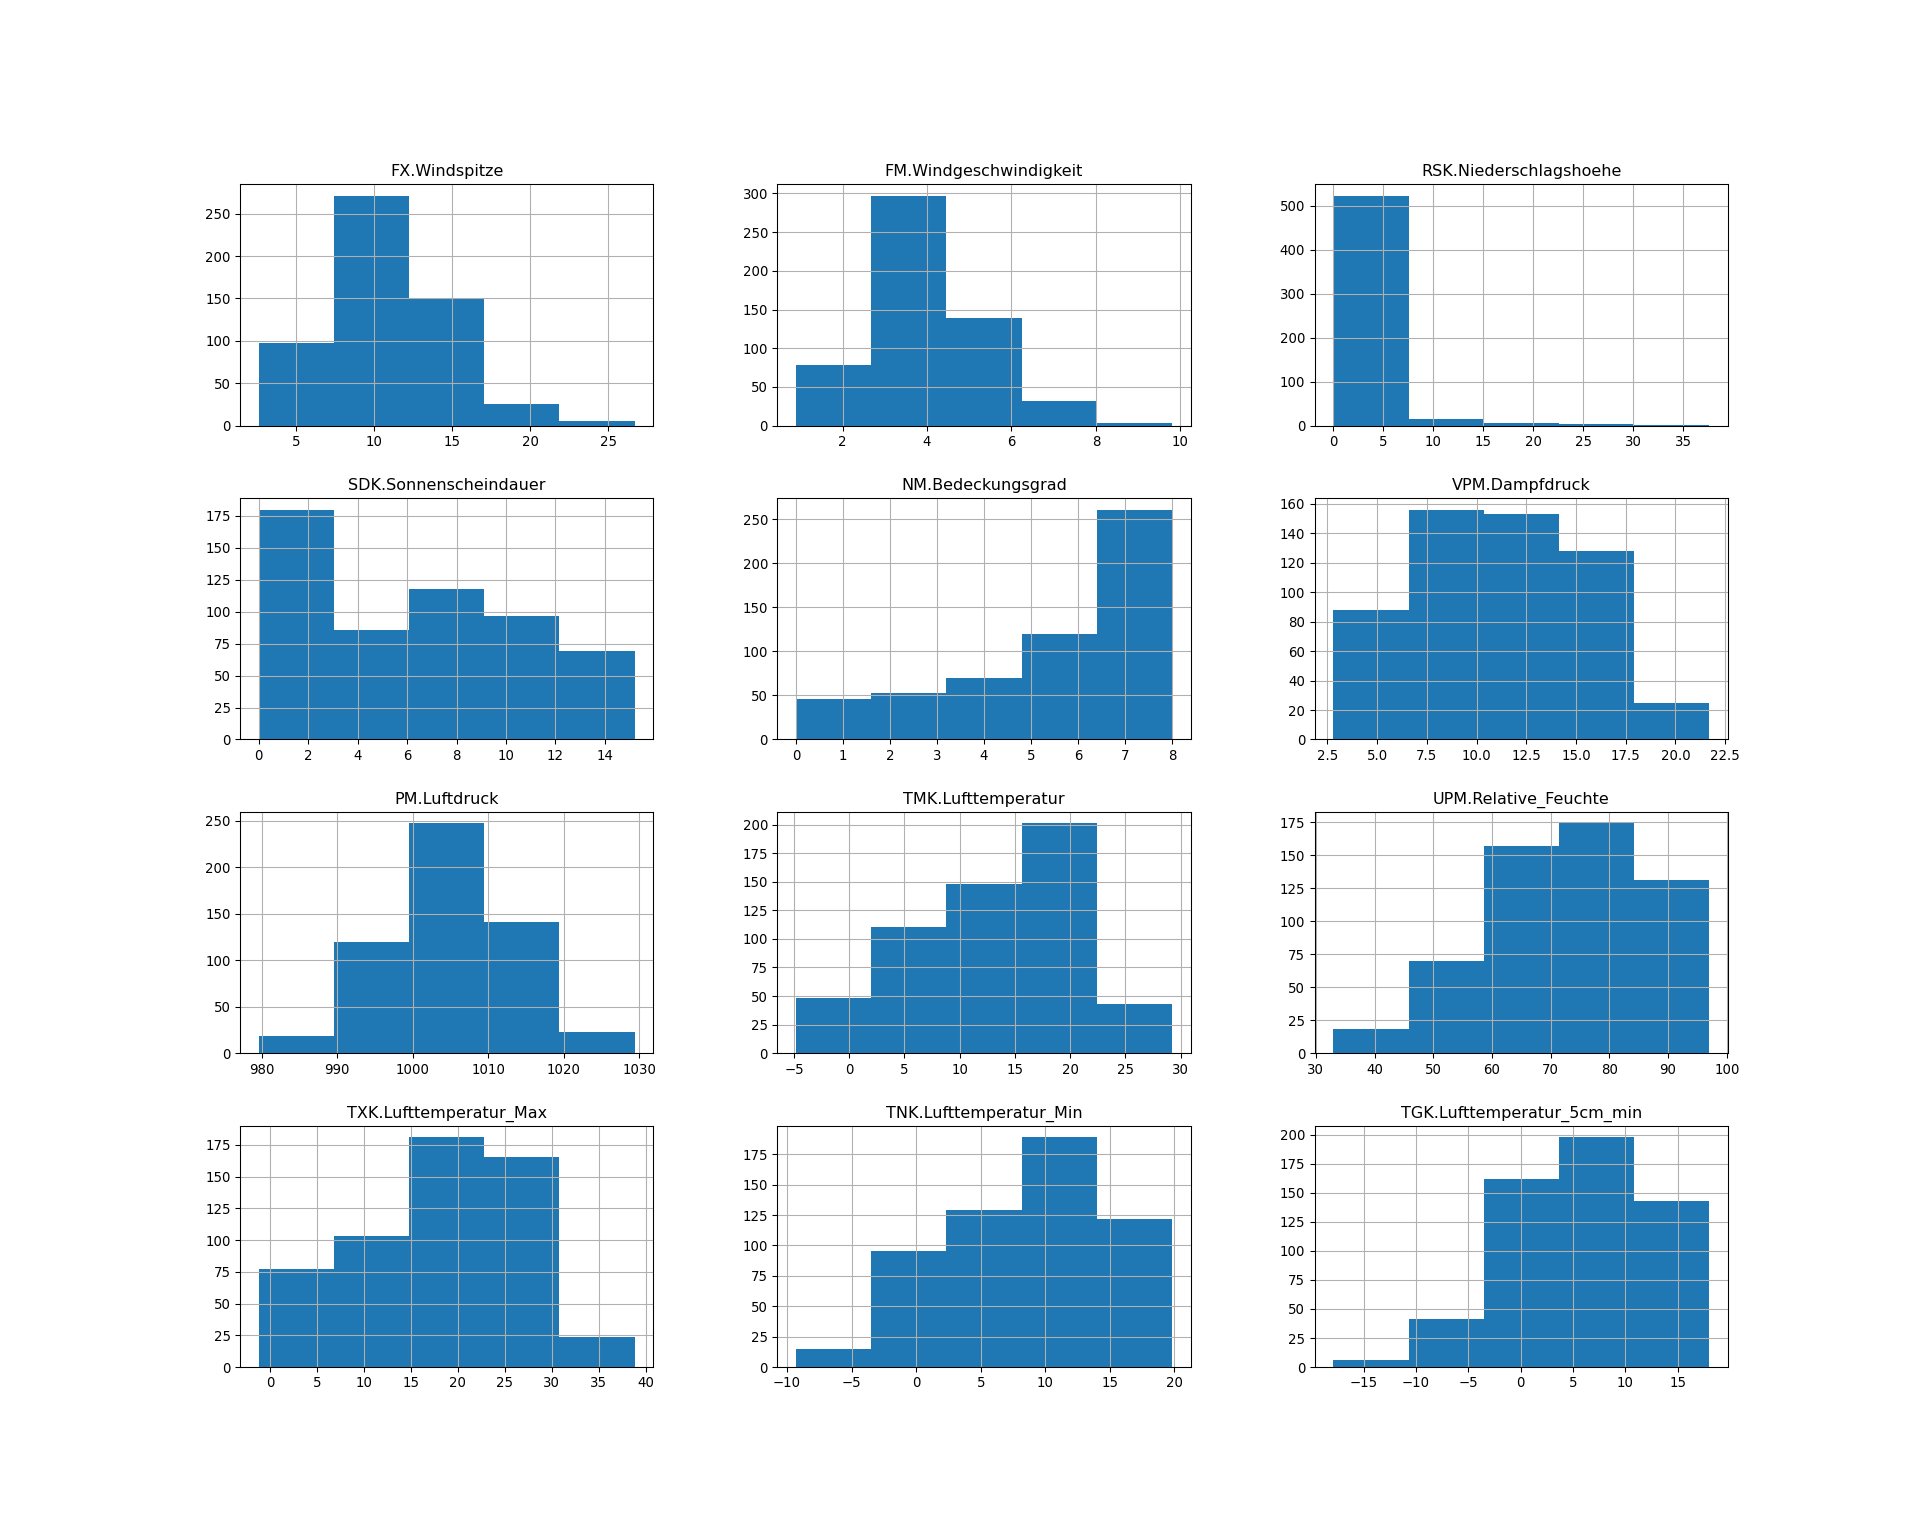
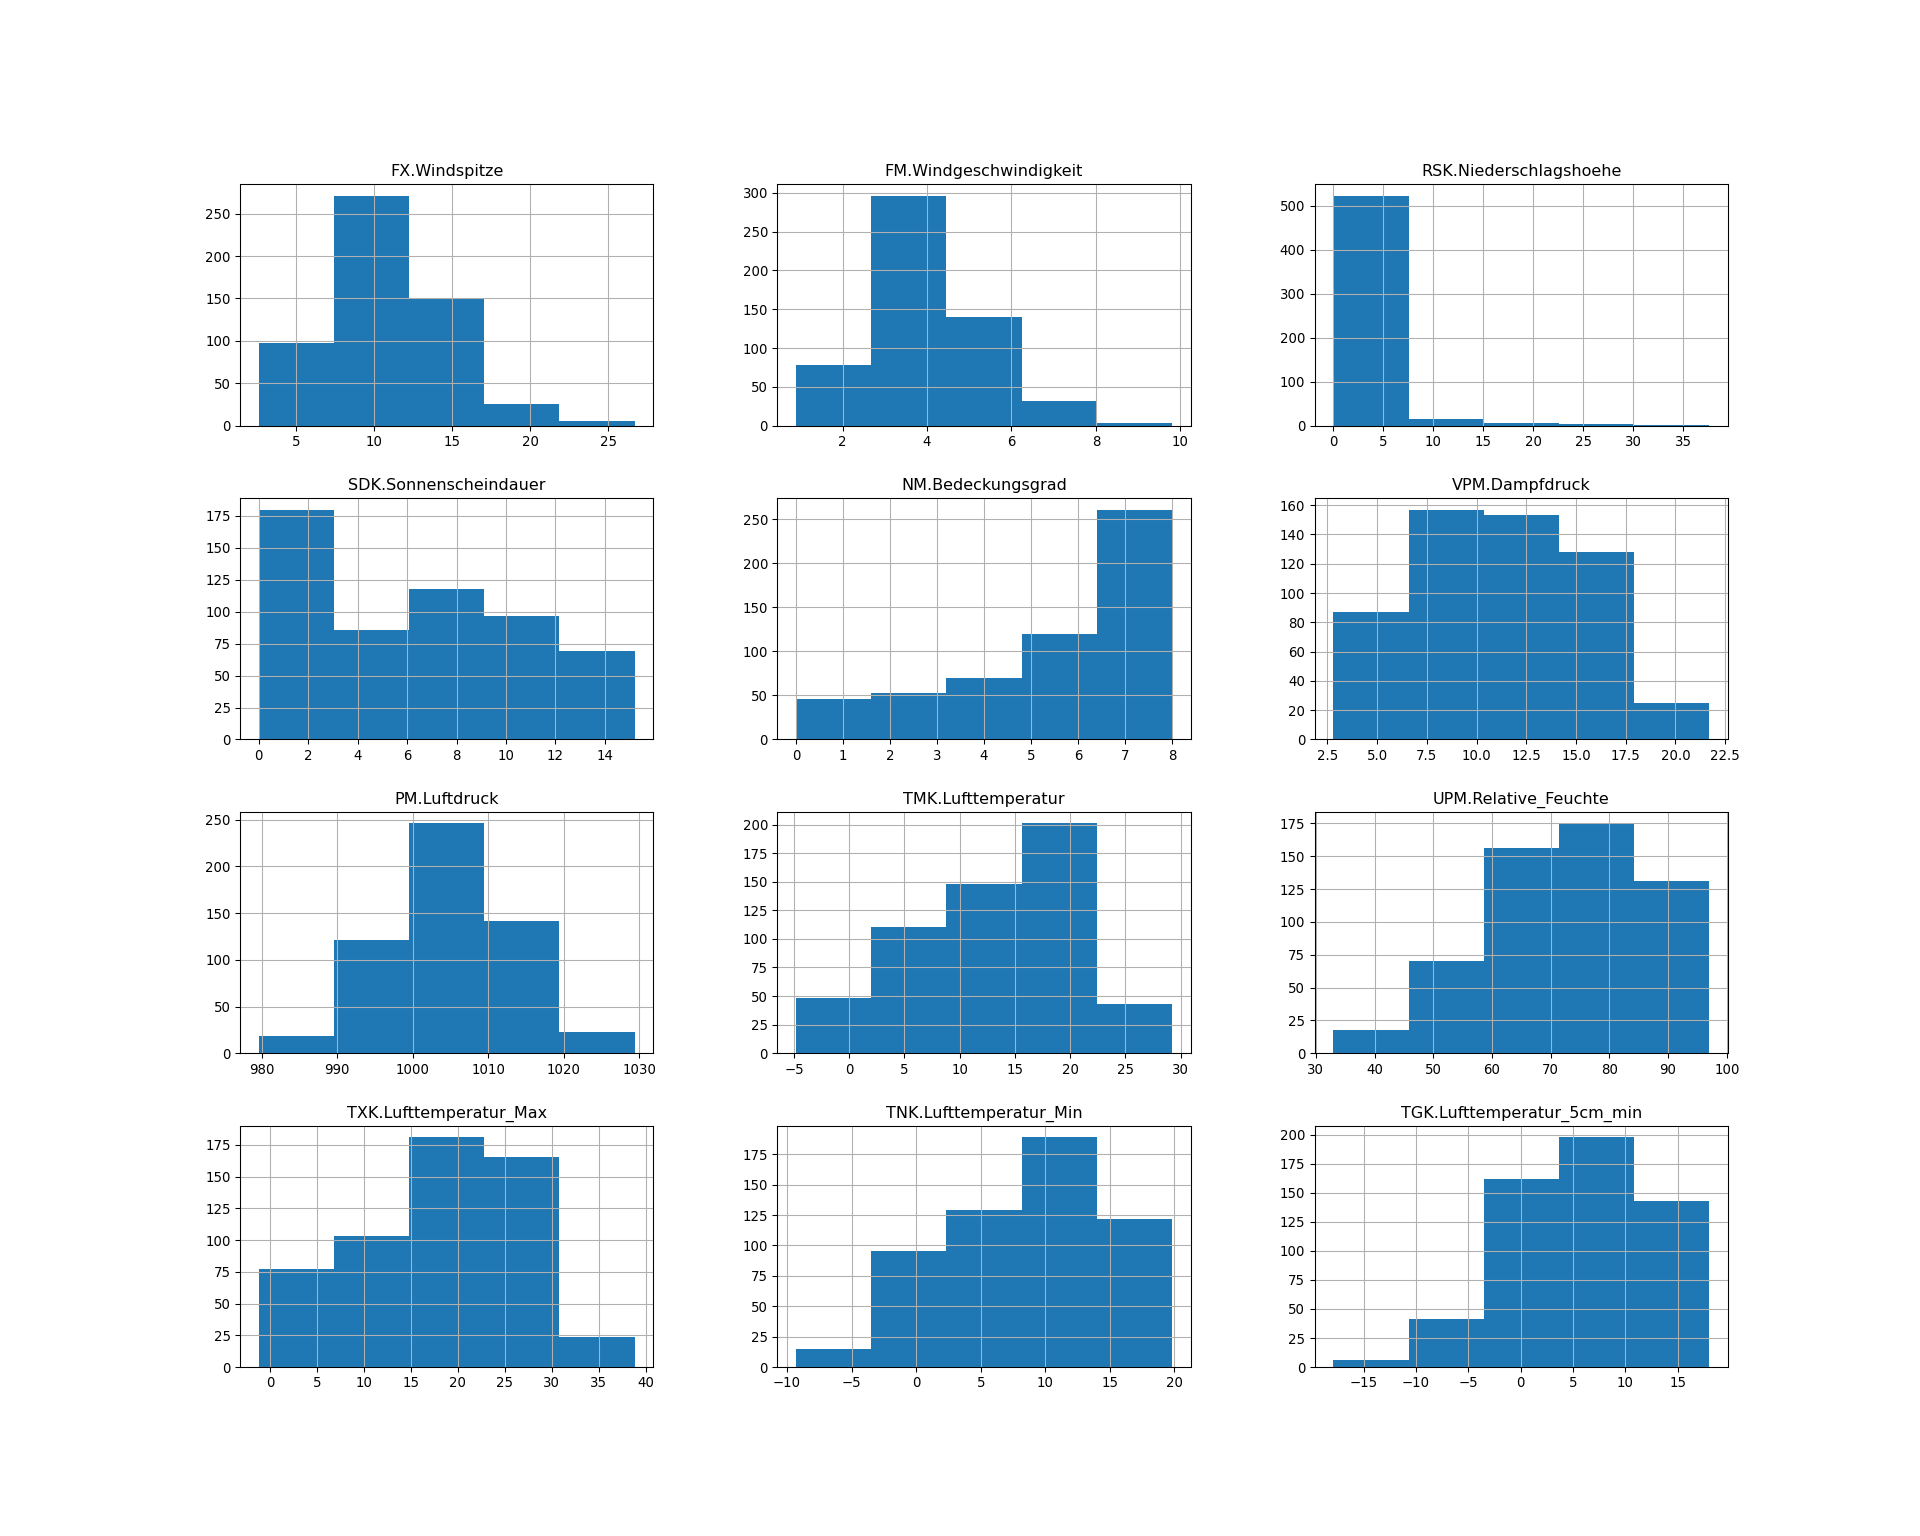
Changed the wind speed graph to the default color i.e blue

Changed region(s): [[0.8125, 0.3438, 0.8438, 0.375], [0.7812, 0.5312, 0.8125, 0.5625]]

diff --git a/README.md b/README.md
@@ -1,6 +1,6 @@
 # Fundamentals of Programming 2025
 Berry Boessenkool;
-2025-10-20, 16:10
+2025-10-21, 22:10
 
 This is a github task in the course
 [FP25](https://open.hpi.de/courses/hpi-dh-fprog2025).  
@@ -18,7 +18,7 @@ rdwd::updateRdwd()
 
 </details>
 
-    rdwd is up to date, compared to github.com/brry/rdwd. Version 1.9.3 (2025-08-18)
+    rdwd is up to date, compared to github.com/brry/rdwd. Version 1.9.4 (2025-10-20)
 
 download recent weather data using
 [rdwd](https://bookdown.org/brry/rdwd/)
@@ -28,25 +28,11 @@ download recent weather data using
 
 ``` r
 library(rdwd)
-```
-
-</details>
-
-    Warning: package 'rdwd' was built under R version 4.4.3
-
-<details class="code-fold">
-<summary>Code</summary>
-
-``` r
 link <- selectDWD("Potsdam", res="daily", var="kl", per="recent")
 clim <- dataDWD(link, varnames=TRUE, force=24)
 ```
 
 </details>
-
-    Warning: .main -> execute -> knitr::knit -> process_file -> xfun:::handle_error
-    -> process_group -> call_block -> block_exec -> dataDWD -> locdir: '~/DWDdata'
-    does not exist, using tempdir() now.
 
     Warning: .main -> execute -> knitr::knit -> process_file -> xfun:::handle_error -> process_group -> call_block -> block_exec ->  dataDWD -> readDWD: R package 'data.table' available for fast reading of files, but system command 'unzip' could not be found. Now reading slowly.
     See   https://bookdown.org/brry/rdwd/fread.html
@@ -70,7 +56,7 @@ plotDWD(clim, "TMK.Lufttemperatur")
 <summary>Code</summary>
 
 ``` r
-plotDWD(clim, "FX.Windspitze", col="brown")
+plotDWD(clim, "FX.Windspitze")
 ```
 
 </details>
